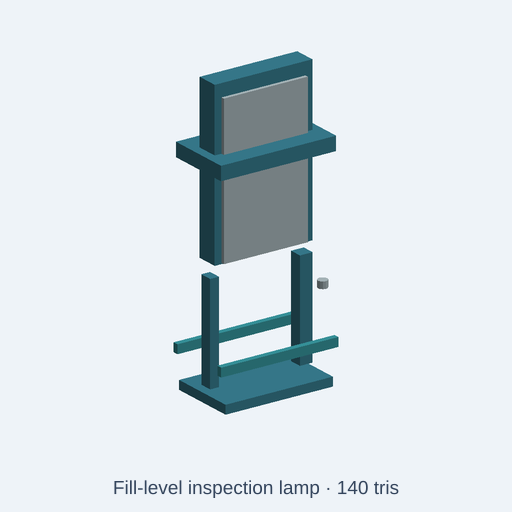
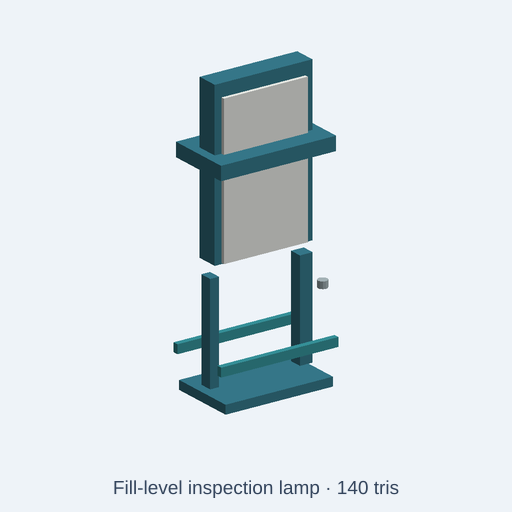
fix(catalog): render the fill-level lamp diffuser as opal acrylic, not stainless
The backlit diffuser is the defining part of a fill-level inspection lamp.
Its part name matched no finish rule, so it fell back to stainlessSteel and
rendered as a grey steel plate. Add a diffuserOpal colour control
(#f4f6f1) and route the diffuser to it; both presets set it.

Geometry, part names and the triangle count (140 / 2,200) are unchanged.
The new GLB colour test fails on the old source and passes after the fix.

Changed region(s): [[0.4062, 0.125, 0.625, 0.5312]]

diff --git a/tests/integration/catalog/fillLevelInspectionLampDiffuserMaterial.test.ts b/tests/integration/catalog/fillLevelInspectionLampDiffuserMaterial.test.ts
@@ -1,0 +1,59 @@
+// SPDX-License-Identifier: MIT
+// Copyright (c) 2026 Andrii Shylenko and kernelCAD contributors
+
+import { resolve } from 'node:path';
+import { NodeIO } from '@gltf-transform/core';
+import { beforeAll, describe, expect, it } from 'vitest';
+import { buildCatalogAssetWithGlb } from '../../../src/agent/catalog/buildCatalog';
+import { initOcct } from '../../../src/kernel/backends/occt/occtBackend';
+
+const repoRoot = resolve(import.meta.dirname, '../../..');
+const source = 'catalog/kits/beverage-bottling-line/fill-level-inspection-lamp.kcad.ts';
+
+beforeAll(async () => {
+  await initOcct();
+}, 120_000);
+
+describe('beverage-bottling-line/fill-level-inspection-lamp materials', () => {
+  it('renders the backlit diffuser as opal acrylic, not stainless steel', async () => {
+    const { asset, glb } = await buildCatalogAssetWithGlb(repoRoot, source);
+
+    expect(asset.stats.triangles).toBeLessThanOrEqual(asset.triangleBudget);
+    expect(asset.params.filter((param) => param.type === 'color').map((param) => param.name)).toEqual([
+      'stainlessSteel', 'powderCoat', 'foodPolymer', 'diffuserOpal',
+    ]);
+    expect(Object.keys(asset.presets)).toEqual(['sanitaryLine', 'legacyPlant']);
+
+    const document = await new NodeIO().readBinary(glb);
+    const nodes = document.getRoot().listNodes();
+    const colorsFor = (name: string) => {
+      const node = nodes.find((candidate) => candidate.getName() === name);
+      return node?.getMesh()?.listPrimitives().flatMap((primitive) => {
+        const vertexColors = primitive.getAttribute('COLOR_0');
+        if (vertexColors !== null) {
+          return Array.from({ length: vertexColors.getCount() }, (_, index) => {
+            const color = vertexColors.getElement(index, []);
+            return color.slice(0, 3).map((channel) =>
+              channel <= 0.0031308 ? 12.92 * channel : 1.055 * channel ** (1 / 2.4) - 0.055,
+            );
+          });
+        }
+        const material = primitive.getMaterial();
+        return material === null ? [] : [material.getBaseColorFactor().slice(0, 3)];
+      }) ?? [];
+    };
+    const matches = (hex: string) => {
+      const expected = [1, 3, 5].map((shift) => parseInt(hex.slice(shift, shift + 2), 16) / 255);
+      return (color: number[]) => expected.every((channel, index) =>
+        Math.abs(channel - color[index]!) < 0.015,
+      );
+    };
+
+    const diffuser = colorsFor('diffuser-face');
+    expect(diffuser.length).toBeGreaterThan(0);
+    expect(diffuser.every(matches('#f4f6f1')), 'diffuser-face should be opal acrylic').toBe(true);
+    const knob = colorsFor('inspection-knob');
+    expect(knob.length).toBeGreaterThan(0);
+    expect(knob.every(matches('#aebdc1')), 'inspection-knob should stay stainless').toBe(true);
+  }, 120_000);
+});

diff --git a/catalog/kits/beverage-bottling-line/fill-level-inspection-lamp.kcad.ts b/catalog/kits/beverage-bottling-line/fill-level-inspection-lamp.kcad.ts
@@ -1,11 +1,12 @@
 // SPDX-License-Identifier: CC0-1.0
 // quality-promotion: beverage-bottling-line 2026-11-05
 // Fill-level inspection lamp: backlit inspection panel and bottle guide rails for a manual fill-level check.
+// The diffuser face is opal acrylic lit from behind, so an operator sees each fill line as a dark band against a bright field.
 meta({
   name: "fill-level-inspection-lamp",
   license: 'CC0-1.0',
   title: "Fill-level inspection lamp",
-  description: "Backlit inspection panel and bottle guide rails for a manual fill-level check. Knobs: overall scale and color controls for stainless steel, powder-coated steel, and food-grade polymer.",
+  description: "Backlit inspection panel and bottle guide rails for a manual fill-level check. Knobs: overall scale and color controls for stainless steel, powder-coated steel, food-grade polymer, and the opal acrylic diffuser.",
   tags: ['beverage bottling', 'packaging line', 'food manufacturing', 'low poly', 'CC0'],
   kit: 'beverage-bottling-line',
   category: 'prop',
@@ -18,17 +19,20 @@ const scale = param('scale', 1, { label: 'Overall scale', min: 0.65, max: 1.3, s
 const stainlessSteel = param('stainlessSteel', '#aebdc1', { label: 'Stainless steel' });
 const powderCoat = param('powderCoat', '#397e91', { label: 'Powder-coated steel' });
 const foodPolymer = param('foodPolymer', '#3999a1', { label: 'Food-grade polymer' });
+const diffuserOpal = param('diffuserOpal', '#f4f6f1', { label: 'Opal acrylic diffuser' });
 
 presets({
   sanitaryLine: {
     stainlessSteel: '#d2dfe1',
     powderCoat: '#4b95a4',
     foodPolymer: '#2c828c',
+    diffuserOpal: '#fbfcf8',
   },
   legacyPlant: {
     stainlessSteel: '#858f91',
     powderCoat: '#315b70',
     foodPolymer: '#286c75',
+    diffuserOpal: '#e6e1cb',
   },
 });
 const boxPart = (x:number,y:number,z:number,w:number,d:number,h:number) => box(w,d,h,true).translate(x,y,z+h/2).scale(scale);
@@ -37,6 +41,7 @@ const cylinderPart = (x:number,y:number,z:number,h:number,r:number,n=10) => cyli
 const p = assembly("fill-level-inspection-lamp");
 const finishPart = (name: string, shape: ReturnType<typeof boxPart>) => {
   const component = name.toLowerCase();
+  if (/diffuser/i.test(component)) return shape.color(diffuserOpal);
   if (/belt|guide|film|web|label|pad|seal|grip|cap|bottle|liner|tray|hose|cleat|divider|wheel|wrap|tape|suction|sleeve/i.test(component)) return shape.color(foodPolymer);
   if (/base|leg|foot|frame|support|stand|control|housing|cabinet|motor|drive|beam|panel|hood|skid|mount|platform|guard|rail|post|lift|jacket/i.test(component)) return shape.color(powderCoat);
   return shape.color(stainlessSteel);
